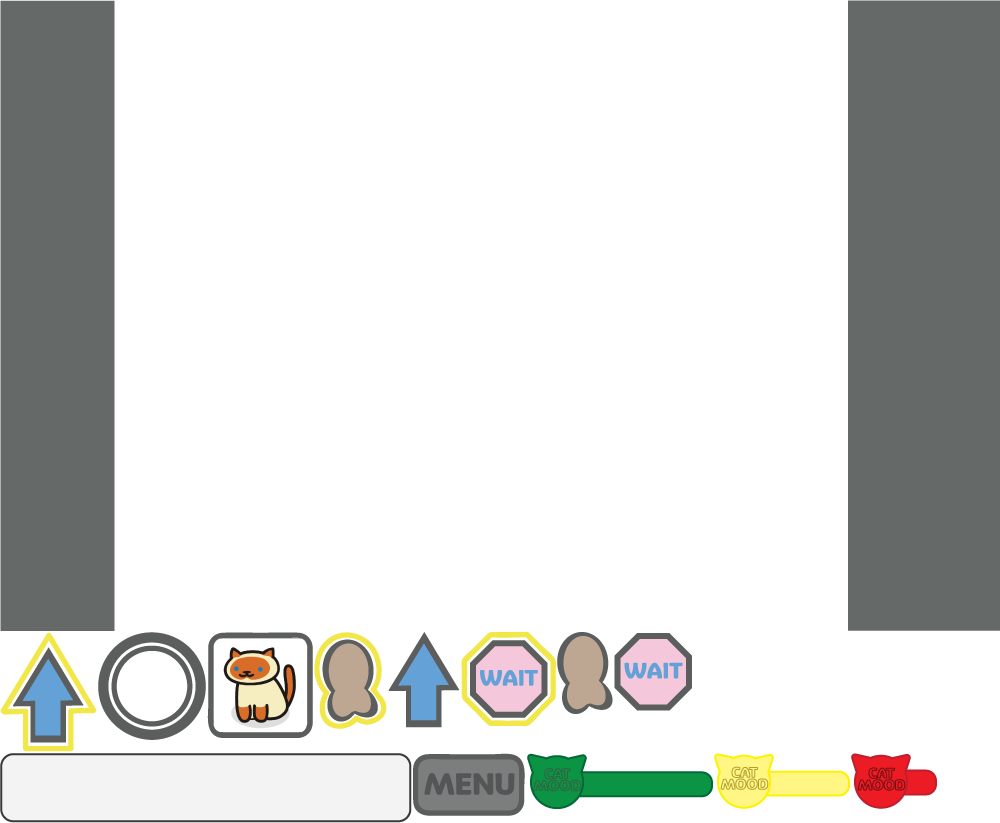
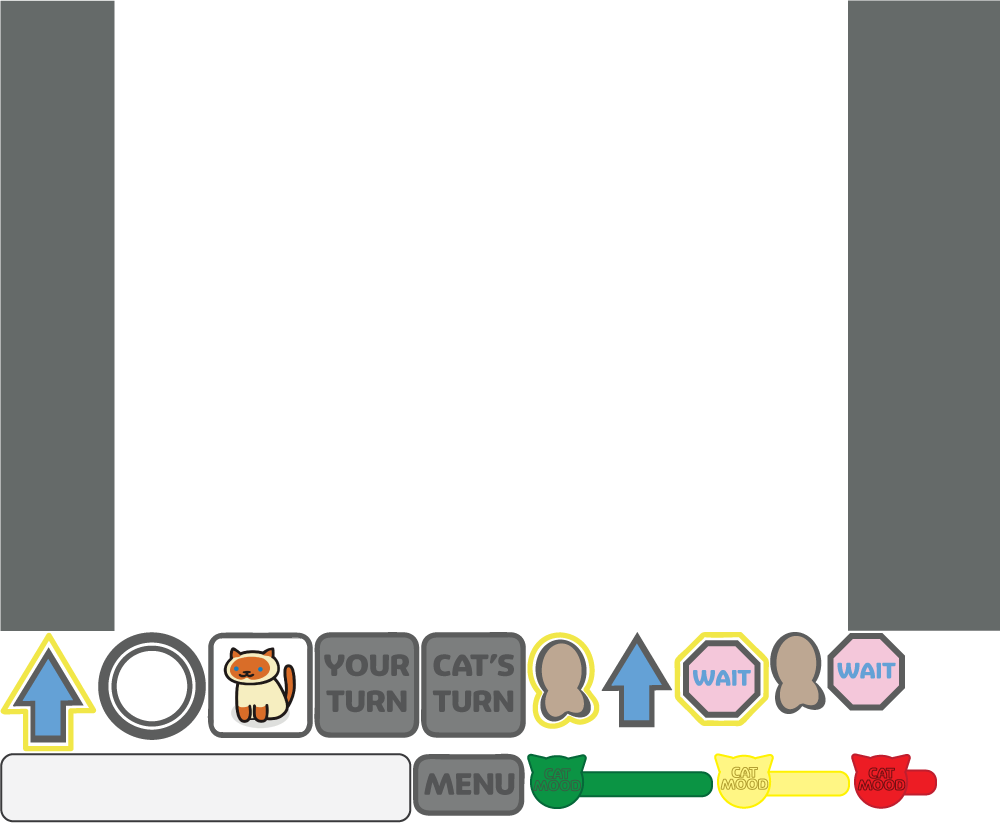
implement new cat and player turn UI

Changed region(s): [[0.31, 0.7594, 0.93, 0.9113]]

diff --git a/js/battle.js b/js/battle.js
@@ -43,9 +43,13 @@ battle.prototype = {
 		photoButton.anchor.setTo(0.5);
 		panel.addChild(photoButton);
 
-		gallery = game.add.sprite(925, 560, 'battleUI', 'photogallery');
-		gallery.anchor.setTo(0.5);
-		panel.addChild(gallery);
+		catTurn = game.add.sprite(925, 560, 'battleUI', 'catturn');
+		catTurn.anchor.setTo(0.5);
+		panel.addChild(catTurn);
+
+		yourTurn = game.add.sprite(925, 560, 'battleUI', 'yourturn');
+		yourTurn.anchor.setTo(0.5);
+		panel.addChild(yourTurn);
 
 		waitButton = game.add.sprite(55, 130, 'battleUI', 'whighlight');
 		waitButton.anchor.setTo(0.5);
@@ -82,9 +86,6 @@ battle.prototype = {
 
 		// telling player whose turn it is
 		style2 = {font: '28px Arial', fill: '#ffffff', align: 'center'};
-		turnText = game.add.text(925, 560, 'YOUR TURN', style2);
-		turnText.anchor.setTo(0.5);
-		turnText.scale.setTo(0.8, 1);
 
 		// creating action text to describe to player
 		style1 = {font: '20px Arial', fill: '#000000', align: 'center'};
@@ -121,42 +122,42 @@ battle.prototype = {
 		{
 			choice = 1;
 			actionText.setText('Give a treat.');
-			waitButton.frame = 10;
-			treatButton.frame = 8;
+			waitButton.frame = 9;
+			treatButton.frame = 7;
 		}
 		else if(choice == 1 && downkey.justPressed())
 		{
 			choice = 2;
 			actionText.setText('Approach.');
-			treatButton.frame = 9;
+			treatButton.frame = 8;
 			approachButton.frame = 12;
 		}
 		else if(choice == 1 && upkey.justPressed())
 		{
 			choice = 0;
 			actionText.setText('Wait and watch.');
-			treatButton.frame = 9;
-			waitButton.frame = 11;
+			treatButton.frame = 8;
+			waitButton.frame = 10;
 		}
 		else if(choice == 2 && upkey.justPressed())
 		{
 			choice = 1;
 			actionText.setText('Give a treat.');
 			approachButton.frame = 13;
-			treatButton.frame = 8;
+			treatButton.frame = 7;
 		}
 		else if(choice == 4 && leftkey.justPressed())
 		{
 			choice = 1;
 			actionText.setText('Give a treat.');
 			photoButton.scale.setTo(1);
-			treatButton.frame = 8;
+			treatButton.frame = 7;
 		}
 		else if(choice == 1 && rightkey.justPressed())
 		{
 			choice = 4;
 			actionText.setText('Take a photo.');
-			treatButton.frame = 9;
+			treatButton.frame = 8;
 			photoButton.scale.setTo(1.2);
 		}
 
@@ -380,18 +381,18 @@ function setTurn(turn)
 	{
 		playerTurn = true;
 		choice = 0;
-		waitButton.frame = 11;
+		waitButton.frame = 10;
 		actionText.setText('Wait and watch.');
-		gallery.visible = false;
-		turnText.visible = true;
+		catTurn.visible = false;
+		yourTurn.visible = true;
 	}
 	else if(turn == 'cat')
 	{
 		playerTurn = false;
-		gallery.visible = true;
-		turnText.visible = false;
-		waitButton.frame = 10;
-		treatButton.frame = 9;
+		catTurn.visible = true;
+		yourTurn.visible = false;
+		waitButton.frame = 9;
+		treatButton.frame = 8;
 		approachButton.frame = 13;
 		photoButton.scale.setTo(1);
 	}
